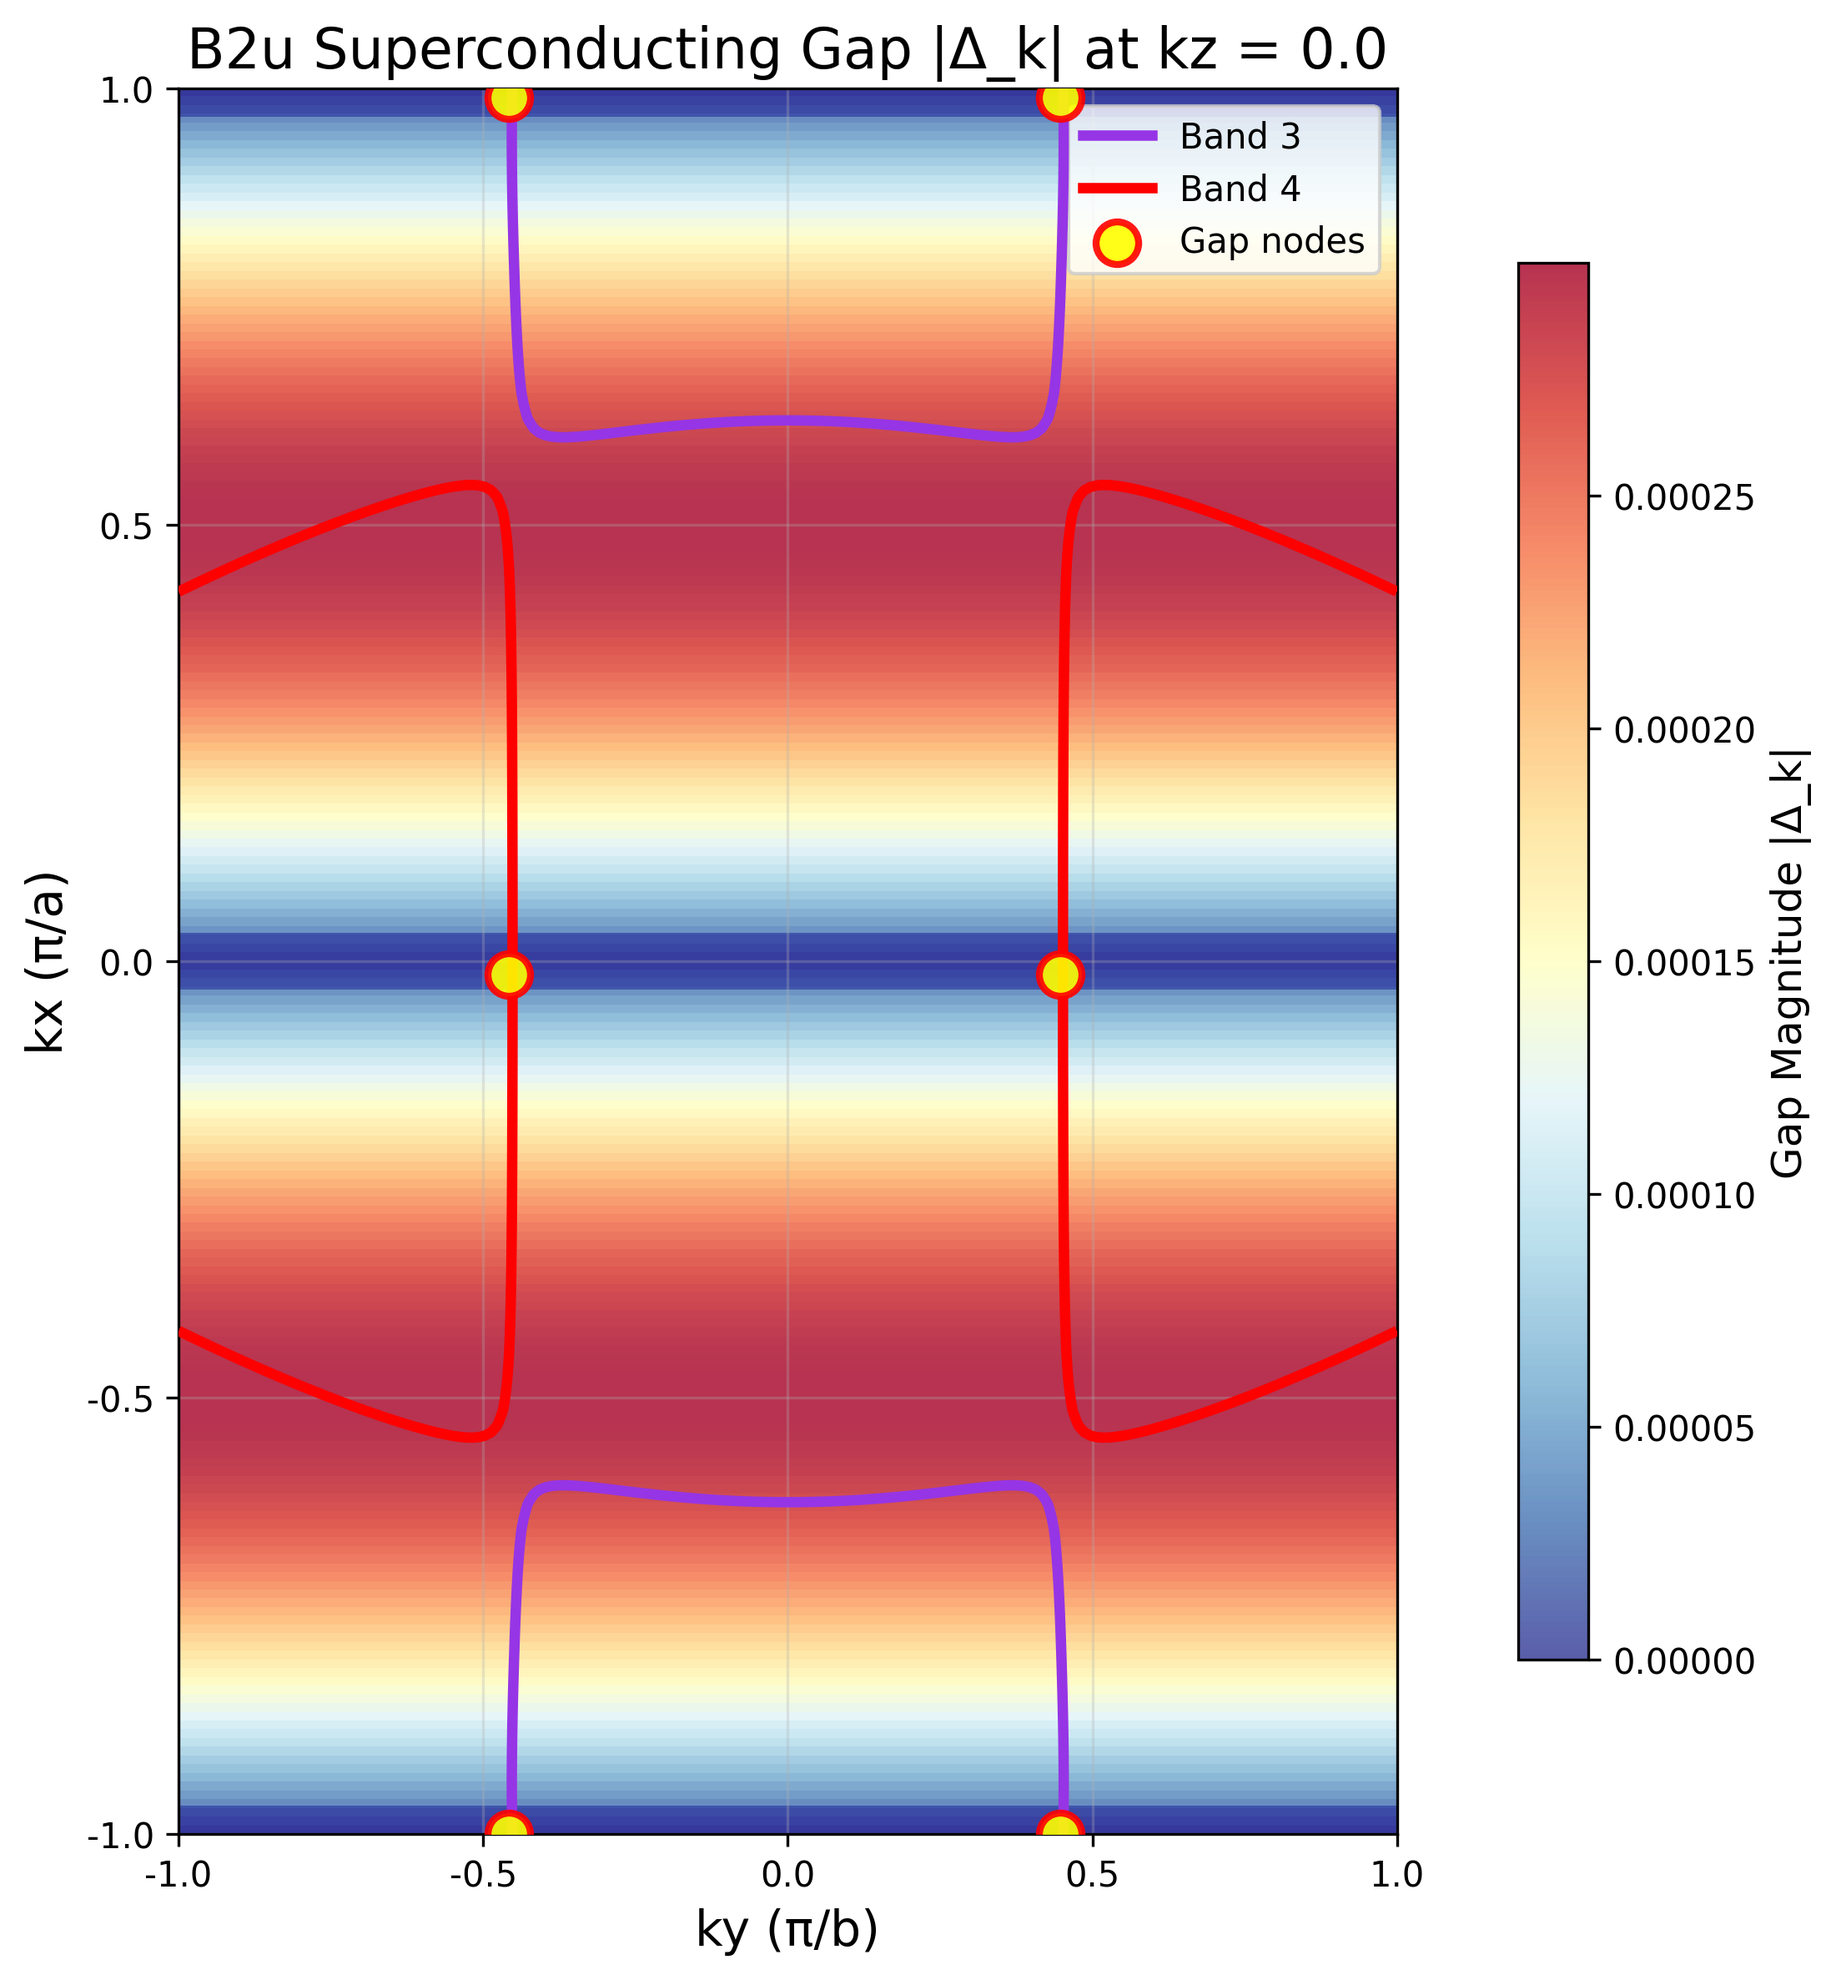
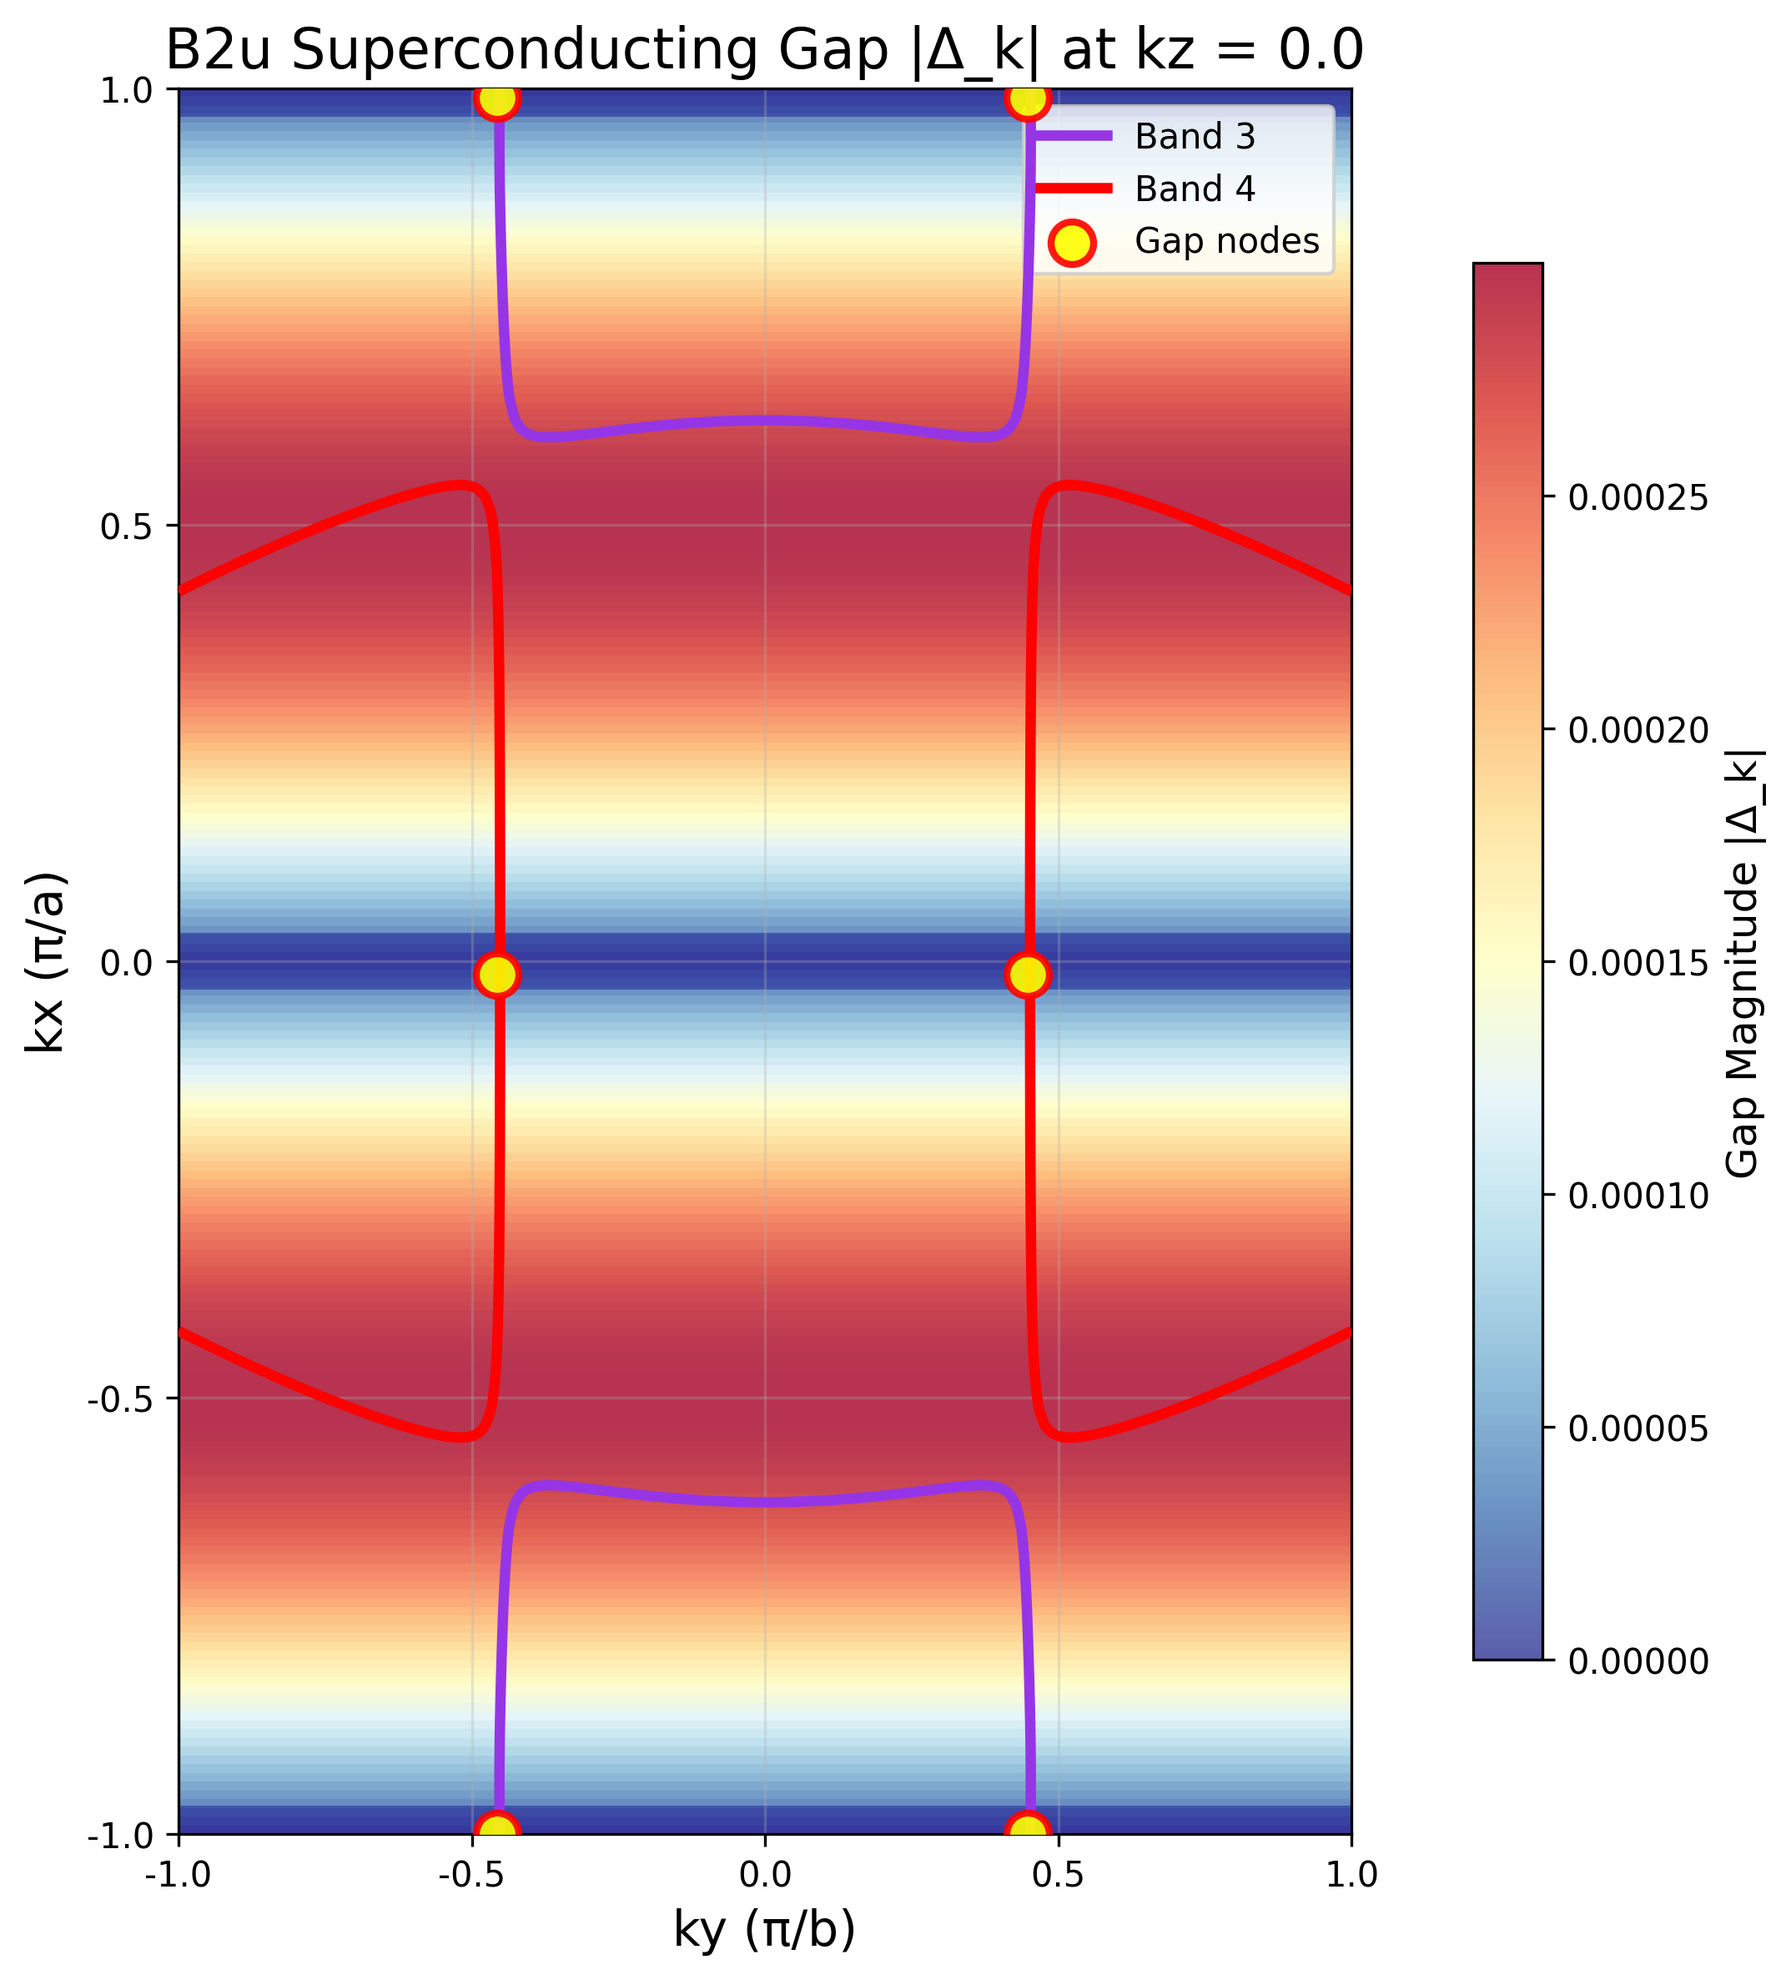
Modified 2D gap plot

diff --git a/UTe2_fixed.py b/UTe2_fixed.py
@@ -36,9 +36,9 @@ tz_U = -0.0375
 muTe = -2.25
 DeltaTe = -1.4
 tTe = -1.5  # hopping along Te(2) chain in b direction
-tch_Te = 0  # hopping between chains in a direction (paper shows 0)
+tch_Te = 0  # hopping between chains in a direction 
 tz_Te = -0.05  # hopping between chains along c axis
-delta = 0.13
+delta = 0.13 #try 0.1 later
 
 # momentum grid for kx-ky plane (in nm^-1, will be converted to π/a, π/b units for plotting)
 nk = 201  # Reduced for faster computation
@@ -53,7 +53,7 @@ def HU_block(kx, ky, kz):
     real_off = -DeltaU - 2*tpU*np.cos(kx*a) - 2*tpch_U*np.cos(ky*b)
     complex_amp = -4 * tz_U * np.exp(-1j * kz * c / 2) * np.cos(kx * a / 2) * np.cos(ky * b / 2)
     
-    # Handle both scalar and array inputs
+    # Handle scalar
     if np.isscalar(kx):
         H = np.zeros((2,2), dtype=complex)
         H[0,0] = diag
@@ -61,7 +61,7 @@ def HU_block(kx, ky, kz):
         H[0,1] = real_off + complex_amp
         H[1,0] = real_off + np.conj(complex_amp)
     else:
-        # Vectorized: shape (..., 2, 2)
+        # Vectorissed
         shape = kx.shape
         H = np.zeros(shape + (2, 2), dtype=complex)
         H[..., 0, 0] = diag
@@ -74,8 +74,7 @@ def HTe_block(kx, ky, kz):
     """2x2 Hamiltonian for Te orbitals - Vectorized version"""
     # Diagonal elements: μTe (no chain hopping since tch_Te = 0 in paper)
     diag = muTe
-    # Off-diagonal elements from paper:
-    # -ΔTe - tTe*exp(-iky*b) - tz_Te*cos(kz*c/2)*cos(kx*a/2)*cos(ky*b/2)
+    # Off-diagonal elements from paper
     real_off = -DeltaTe
     complex_term1 = -tTe * np.exp(-1j * ky * b)  # hopping along b direction
     complex_term2 = -tz_Te * np.cos(kz * c / 2) * np.cos(kx * a / 2) * np.cos(ky * b / 2)
@@ -101,16 +100,13 @@ def H_full(kx, ky, kz):
     """Full 4x4 Hamiltonian with U-Te hybridization - Vectorized version"""
     HU = HU_block(kx, ky, kz)
     HTe = HTe_block(kx, ky, kz)
-    m_eff = 1.53
-    E0 = np.trace(HU, axis1=-2, axis2=-1) / 2.0            
-    E0I = E0[..., None, None] * np.eye(2)                  
-    HU_scaled = E0I + (HU - E0I) / m_eff
+
 
 
     # Handle both scalar and array inputs
     if np.isscalar(kx):
         Hhyb = np.eye(2) * delta
-        top = np.hstack((HU_scaled, Hhyb))
+        top = np.hstack((HU, Hhyb))
         bottom = np.hstack((Hhyb.conj().T, HTe))
         H = np.vstack((top, bottom))
     else:
@@ -534,9 +530,9 @@ def plot_gap_magnitude_2d(kz=0.0, pairing_types=['B1u', 'B2u', 'B3u'],
             eigvals = np.linalg.eigvals(H)
             energies_fs[i, j, :] = np.sort(np.real(eigvals))
     
-    # Create subplot layout
+    # Create subplot layout - 3 plots side by side
     n_types = len(pairing_types)
-    if n_types <= 2:
+    if n_types <= 3:
         fig, axes = plt.subplots(1, n_types, figsize=(8*n_types, 7))
         if n_types == 1:
             axes = [axes]
@@ -2914,9 +2910,9 @@ if __name__ == "__main__":
     #plot_main_fermi_contours(kx_vals_local, ky_vals_local, energies_kz0)
     
     # Generate superconducting gap magnitude plots
-    #print("\nGenerating superconducting gap magnitude visualizations...")
+    print("\nGenerating superconducting gap magnitude visualizations...")
     # Skip B1u as it has no nodes at kz=0
-    #plot_gap_magnitude_2d(kz=kz0, pairing_types=['B1u' , 'B2u', 'B3u'], resolution=200)
+    plot_gap_magnitude_2d(kz=kz0, pairing_types=['B1u' , 'B2u', 'B3u'], resolution=200)
     
     # Generate 3D plot without gap nodes
     #print("\n" + "="*70)
@@ -2937,11 +2933,11 @@ if __name__ == "__main__":
     # Generate (0-11) crystallographic projections
     
     # Generate projections with gap nodes for both B2u and B3u
-    for pairing in ['B2u', 'B3u']:
-        print(f"Generating projection with {pairing} gap nodes...")
-        plot_011_fermi_surface_projection(save_dir='outputs/ute2_fixed', 
-                                        show_gap_nodes=True, gap_node_pairing=pairing, 
-                                        angle_deg=24.0)
+    #for pairing in ['B2u', 'B3u']:
+        #print(f"Generating projection with {pairing} gap nodes...")
+        #plot_011_fermi_surface_projection(save_dir='outputs/ute2_fixed', 
+                                        #show_gap_nodes=True, gap_node_pairing=pairing, 
+                                        #angle_deg=24.0)
     
     
 
